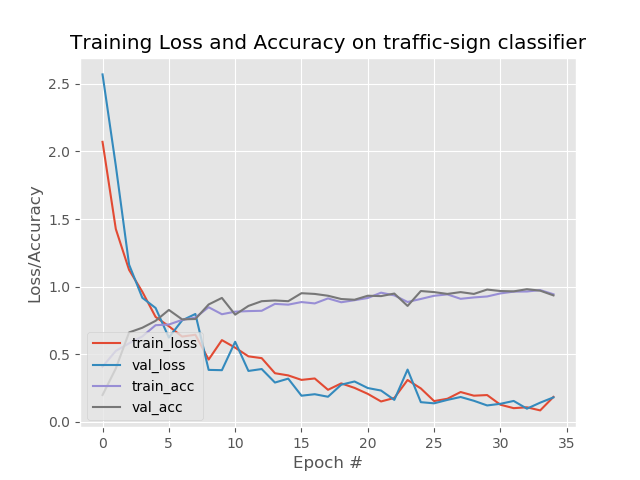
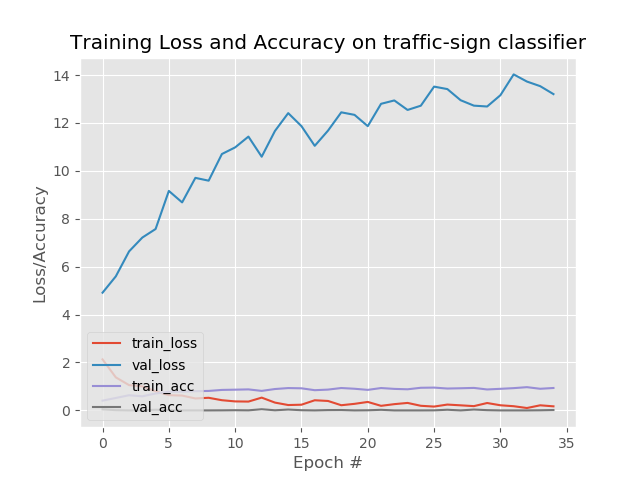
做了一些修改

diff --git a/learnTF/TestKeras/lenet.py b/learnTF/TestKeras/lenet.py
@@ -1,29 +1,24 @@
-#!/usr/bin/env python
-# -*- coding: utf-8 -*-
-# 作用：
+# import the necessary packages
 from keras.models import Sequential
 from keras.layers.convolutional import Conv2D
 from keras.layers.convolutional import MaxPooling2D
-from keras.layers.core import Activation, Dropout
+from keras.layers.core import Activation
 from keras.layers.core import Flatten
 from keras.layers.core import Dense
 from keras import backend as K
-
-EPOCHS = 35
-INIT_LR = 1e-3
-BS = 32
-CLASS_NUM = 62
-norm_size = 32
 
 
 class LeNet:
     @staticmethod
     def build(width, height, depth, classes):
+        # initialize the model
         model = Sequential()
-        input_shape = (height, width, depth)
-        if K.image_data_format() == 'channels_first':
-            input_shape = (depth, height, width)
-        model.add(Conv2D(20, (5, 5), padding="same", input_shape=input_shape))
+        inputShape = (height, width, depth)
+        # if we are using "channels last", update the input shape
+        if K.image_data_format() == "channels_first":  # for tensorflow
+            inputShape = (depth, height, width)
+        # first set of CONV => RELU => POOL layers
+        model.add(Conv2D(20, (5, 5), padding="same", input_shape=inputShape))
         model.add(Activation("relu"))
         model.add(MaxPooling2D(pool_size=(2, 2), strides=(2, 2)))
         # second set of CONV => RELU => POOL layers
@@ -31,7 +26,6 @@ class LeNet:
         model.add(Activation("relu"))
         model.add(MaxPooling2D(pool_size=(2, 2), strides=(2, 2)))
         # first (and only) set of FC => RELU layers
-        model.add(Dropout(0.5))
         model.add(Flatten())
         model.add(Dense(500))
         model.add(Activation("relu"))
@@ -42,4 +36,3 @@ class LeNet:
 
         # return the constructed network architecture
         return model
-

diff --git a/learnTF/TestKeras/argprasr.py b/learnTF/TestKeras/argprasr.py
@@ -114,6 +114,8 @@ if __name__ == '__main__':
     test_file_path = args["dataset_test"]
     trainX, trainY = load_data(train_file_path)
     testX, testY = load_data(test_file_path)
+    print('train data len : %d train label len : %d' % (len(trainX), len(trainY)))
+    print('test data len : %d test label len : %d' % (len(testX), len(testY)))
     # construct the image generator for data augmentation
     aug = ImageDataGenerator(rotation_range=30, width_shift_range=0.1,
                              height_shift_range=0.1, shear_range=0.2, zoom_range=0.2,
